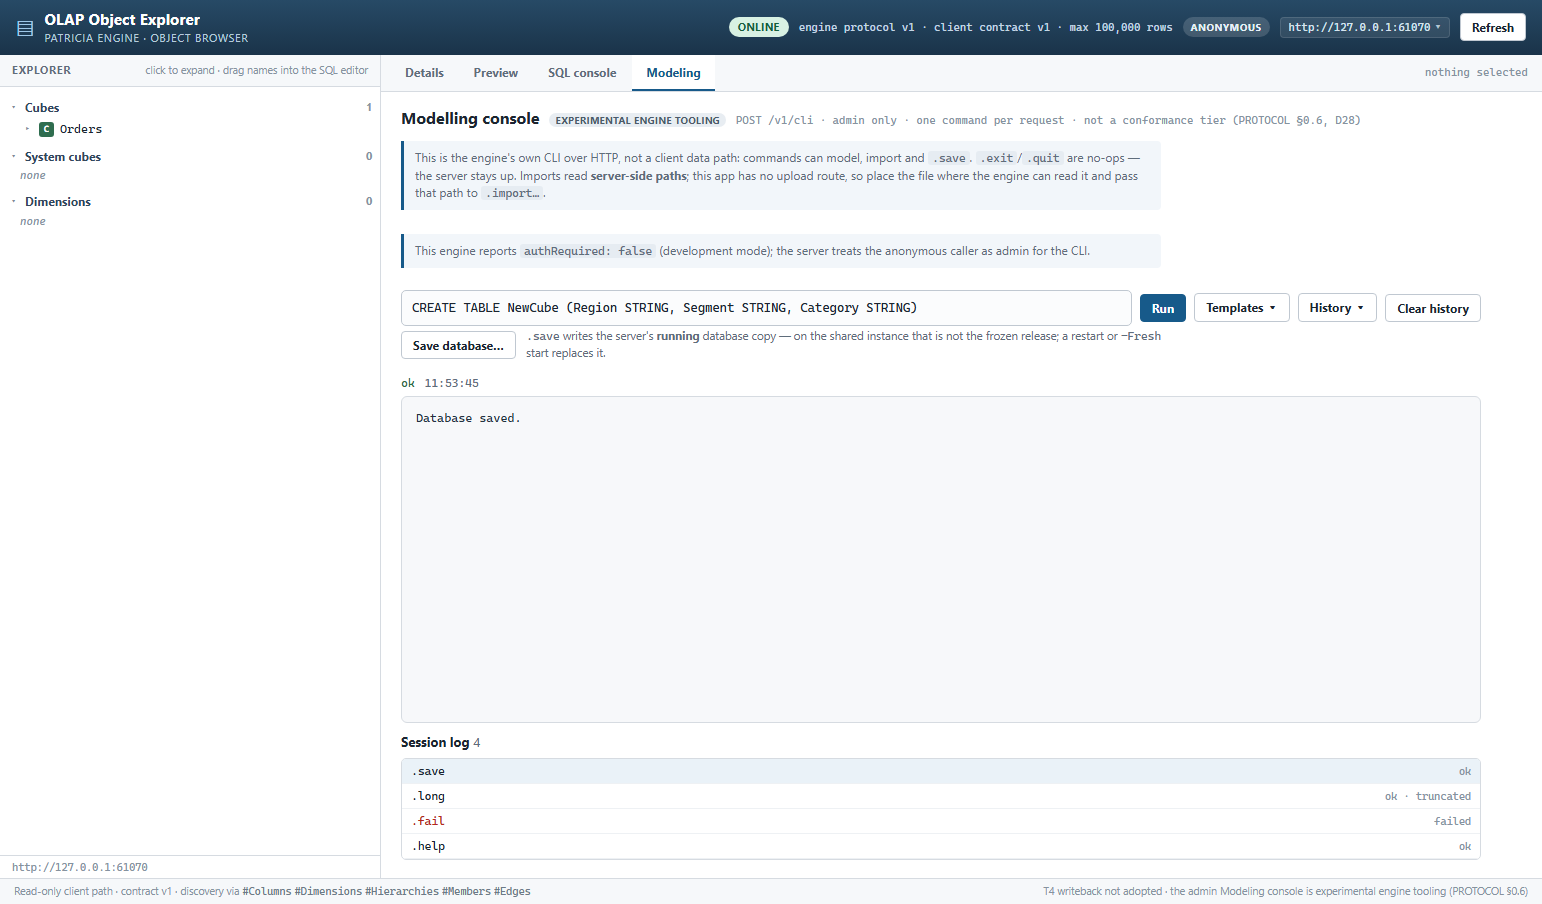
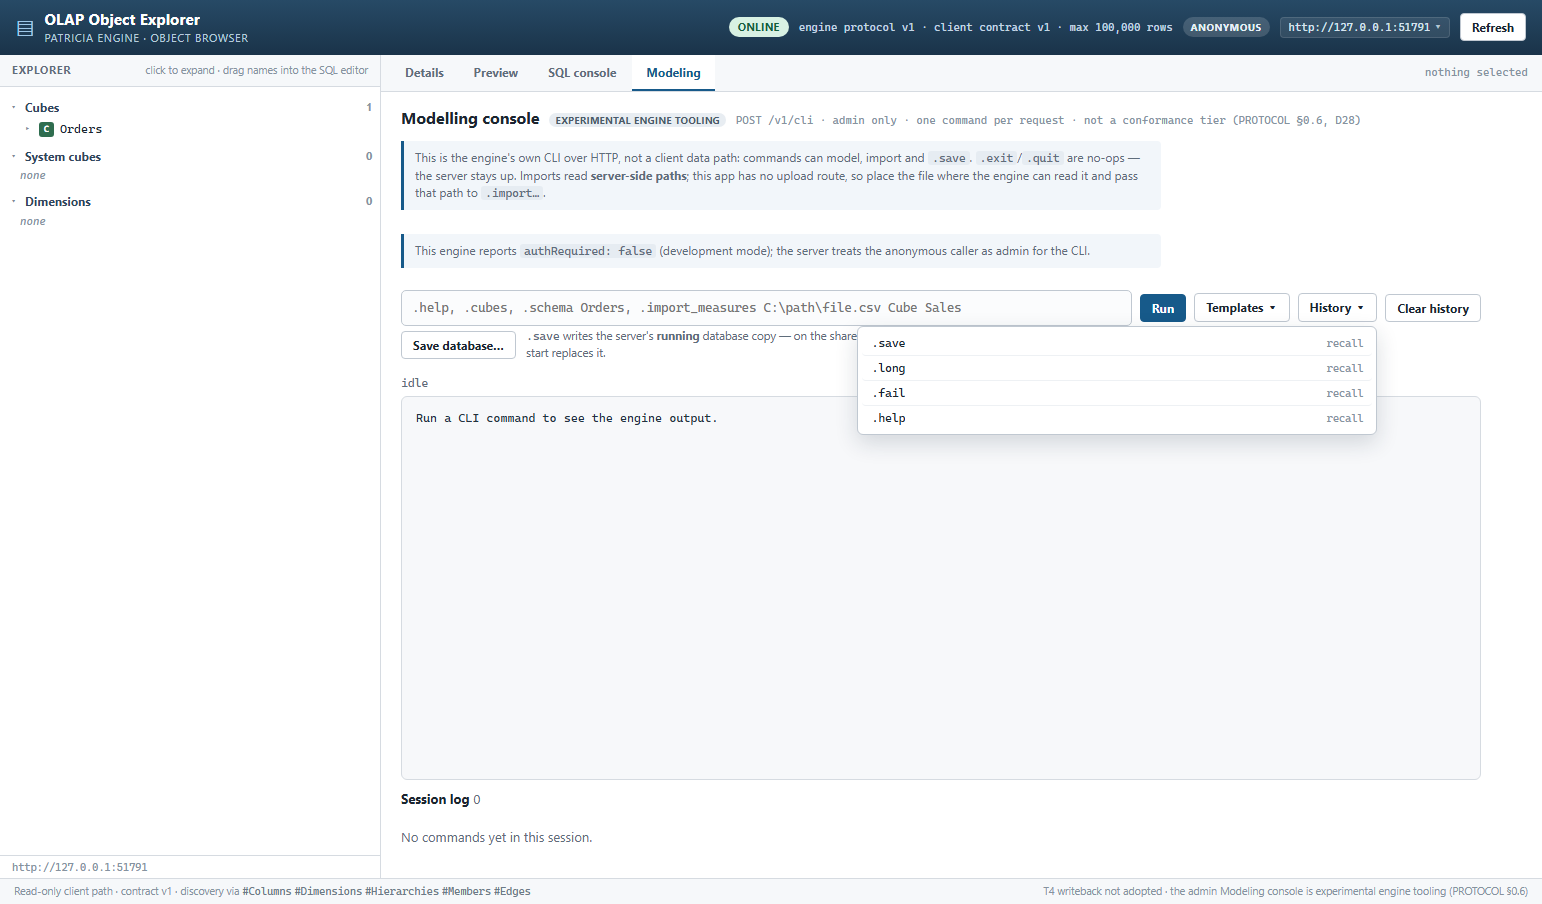
feat(cli): persist command history (100 commands, per server/user)
- Shell-style history now lives in localStorage as commands only (no output),
  keyed by engine server + signed-in user, capped at 100, deduped consecutively,
  and cleared by Clear history.
- Up/Down and the History dropdown read the persisted list; the session log
  keeps the current session's outputs.
- Unit check for cap/dedupe/round-trip; the UI check reloads the app and asserts
  history survives (64 checks). README records the shared-browser-profile caveat.

diff --git a/src/cli.tsx b/src/cli.tsx
@@ -1,6 +1,12 @@
-import { useMemo, useRef, useState } from 'react';
+import { useEffect, useMemo, useRef, useState } from 'react';
 import type { FormEvent, KeyboardEvent } from 'react';
-import { engineApi, errorCode, errorText } from './api';
+import { engineApi, engineBase, errorCode, errorText } from './api';
+import {
+  addCommand,
+  cliHistoryKey,
+  loadHistory,
+  saveHistory,
+} from './cliHistory';
 import type { CliResponse } from './types';
 
 interface CliConsoleProps {
@@ -17,6 +23,8 @@ interface CliConsoleProps {
   roles: string[] | null;
   /** True when the engine reports authRequired: false (development mode). */
   anonymous: boolean;
+  /** Signed-in user, or null for anonymous / token-only sessions. */
+  user: string | null;
 }
 
 interface CliEntry {
@@ -98,6 +106,14 @@ function nowLabel(): string {
   return new Date().toLocaleTimeString();
 }
 
+function browserStorage(): Storage | null {
+  try {
+    return window.localStorage;
+  } catch {
+    return null;
+  }
+}
+
 /**
  * Admin modelling console for the engine's CLI bridge (`POST /v1/cli`).
  *
@@ -115,9 +131,13 @@ function nowLabel(): string {
  * `.save` writes the **running** database copy, not the frozen release pair;
  * the button therefore says so explicitly and requires a second click.
  */
-export function CliConsole({ supportsCli, roles, anonymous }: CliConsoleProps) {
+export function CliConsole({ supportsCli, roles, anonymous, user }: CliConsoleProps) {
   const [command, setCommand] = useState('');
   const [entries, setEntries] = useState<CliEntry[]>([]);
+  // Persistent shell-style history: commands only, server+user scoped.
+  const storage = browserStorage();
+  const historyStoreKey = cliHistoryKey(engineBase(), user);
+  const [history, setHistory] = useState<string[]>(() => loadHistory(storage, historyStoreKey));
   const [activeId, setActiveId] = useState<number | null>(null);
   const [running, setRunning] = useState(false);
   const [formError, setFormError] = useState<string | null>(null);
@@ -137,6 +157,10 @@ export function CliConsole({ supportsCli, roles, anonymous }: CliConsoleProps) {
     () => entries.find((entry) => entry.id === activeId) ?? entries[0] ?? null,
     [entries, activeId],
   );
+
+  useEffect(() => {
+    saveHistory(storage, historyStoreKey, history);
+  }, [storage, historyStoreKey, history]);
 
   if (!supportsCli) {
     return (
@@ -159,6 +183,7 @@ export function CliConsole({ supportsCli, roles, anonymous }: CliConsoleProps) {
     setFormError(null);
     setSaveConfirm(false);
     setTemplateOpen(false);
+    setHistory((previous) => addCommand(previous, raw));
     setRunning(true);
     setBrowseIndex(null);
     setDraft('');
@@ -210,11 +235,11 @@ export function CliConsole({ supportsCli, roles, anonymous }: CliConsoleProps) {
   };
 
   const recallOlder = () => {
-    if (entries.length === 0) return;
-    const next = browseIndex === null ? 0 : Math.min(entries.length - 1, browseIndex + 1);
+    if (history.length === 0) return;
+    const next = browseIndex === null ? 0 : Math.min(history.length - 1, browseIndex + 1);
     if (browseIndex === null) setDraft(command);
     setBrowseIndex(next);
-    setCommand(entries[next].command);
+    setCommand(history[next]);
   };
 
   const recallNewer = () => {
@@ -225,13 +250,12 @@ export function CliConsole({ supportsCli, roles, anonymous }: CliConsoleProps) {
       setCommand(draft);
     } else {
       setBrowseIndex(next);
-      setCommand(entries[next].command);
+      setCommand(history[next]);
     }
   };
 
-  const chooseHistory = (entry: CliEntry) => {
-    setCommand(entry.command);
-    setActiveId(entry.id);
+  const chooseHistory = (recalled: string) => {
+    setCommand(recalled);
     setBrowseIndex(null);
     setHistoryOpen(false);
     setTemplateOpen(false);
@@ -259,8 +283,7 @@ export function CliConsole({ supportsCli, roles, anonymous }: CliConsoleProps) {
         event.preventDefault();
         recallNewer();
       }
-    } else if (event.key === 'Escape') {
-      setHistoryOpen(false);
+    } else if (event.key === 'Escape') {      setHistoryOpen(false);
       setTemplateOpen(false);
     }
   };
@@ -374,8 +397,8 @@ export function CliConsole({ supportsCli, roles, anonymous }: CliConsoleProps) {
                 data-testid="cli-history-button"
                 aria-haspopup="menu"
                 aria-expanded={historyOpen}
-                title="Recent commands (↑/↓ in the input recalls them)"
-                disabled={entries.length === 0}
+                title="Recent commands, remembered per server and user (↑/↓ recalls them)"
+                disabled={history.length === 0}
                 onClick={() => {
                   setHistoryOpen((open) => !open);
                   setTemplateOpen(false);
@@ -383,22 +406,20 @@ export function CliConsole({ supportsCli, roles, anonymous }: CliConsoleProps) {
               >
                 History ▾
               </button>
-              {historyOpen && entries.length > 0 && (
+              {historyOpen && history.length > 0 && (
                 <div className="cli-history-menu" role="menu" data-testid="cli-history-menu">
-                  {entries.map((entry) => (
+                  {history.map((recalled, index) => (
                     <button
-                      key={entry.id}
+                      key={`${index}-${recalled}`}
                       type="button"
                       role="menuitem"
                       data-testid="cli-history-item"
-                      className={`cli-history-item${entry.ok ? '' : ' is-error'}`}
-                      title={entry.command}
-                      onClick={() => chooseHistory(entry)}
+                      className="cli-history-item"
+                      title={recalled}
+                      onClick={() => chooseHistory(recalled)}
                     >
-                      <span className="cli-history-command">{entry.command}</span>
-                      <span className="cli-history-meta">
-                        {entry.kind === 'http' ? 'http' : entry.ok ? 'ok' : 'failed'}
-                      </span>
+                      <span className="cli-history-command">{recalled}</span>
+                      <span className="cli-history-meta">recall</span>
                     </button>
                   ))}
                 </div>
@@ -408,9 +429,10 @@ export function CliConsole({ supportsCli, roles, anonymous }: CliConsoleProps) {
               type="button"
               className="btn"
               data-testid="cli-clear"
-              disabled={running || entries.length === 0}
+              disabled={running || (entries.length === 0 && history.length === 0)}
               onClick={() => {
                 setEntries([]);
+                setHistory([]);
                 setActiveId(null);
                 setFormError(null);
                 setBrowseIndex(null);

diff --git a/src/cliHistory.ts b/src/cliHistory.ts
@@ -1,0 +1,60 @@
+/**
+ * CLI command history persistence.
+ *
+ * Deliberately **commands only** (no output): output can be up to 64 KiB per
+ * command, and a clipboard-style recall list does not need it. Stored in
+ * `localStorage`, keyed by engine server + signed-in user, capped at 100.
+ *
+ * Multi-user caveat: this is a single-browser profile store. Two different
+ * OS users sharing one browser profile share `localStorage`; the user-name key
+ * separates normal logins, but an anonymous session shares the `anonymous` key
+ * for that server. Commands may contain server paths/names, so the README says
+ * this plainly.
+ */
+export const CLI_HISTORY_LIMIT = 100;
+const KEY_PREFIX = 'olap-object-explorer.cli-history.v1';
+
+export function cliHistoryKey(server: string, user: string | null): string {
+  return `${KEY_PREFIX}:${server === '' ? 'proxy' : server}:${user ?? 'anonymous'}`;
+}
+
+/** Keep only non-empty, single-line strings and cap at the limit. */
+export function normalizeHistory(raw: unknown): string[] {
+  if (!Array.isArray(raw)) return [];
+  const result: string[] = [];
+  for (const item of raw) {
+    if (typeof item !== 'string') continue;
+    if (item.trim() === '' || /[\r\n]/.test(item)) continue;
+    result.push(item);
+    if (result.length >= CLI_HISTORY_LIMIT) break;
+  }
+  return result;
+}
+
+/** Newest first, no consecutive duplicates, capped. */
+export function addCommand(history: string[], command: string): string[] {
+  if (command.trim() === '' || /[\r\n]/.test(command)) return history;
+  const withoutDuplicate = history[0] === command ? history : [command, ...history];
+  return withoutDuplicate.slice(0, CLI_HISTORY_LIMIT);
+}
+
+export function loadHistory(storage: Storage | null, key: string): string[] {
+  if (storage === null) return [];
+  try {
+    const raw = storage.getItem(key);
+    if (raw === null) return [];
+    return normalizeHistory(JSON.parse(raw));
+  } catch {
+    return [];
+  }
+}
+
+export function saveHistory(storage: Storage | null, key: string, history: string[]): void {
+  if (storage === null) return;
+  try {
+    if (history.length === 0) storage.removeItem(key);
+    else storage.setItem(key, JSON.stringify(history.slice(0, CLI_HISTORY_LIMIT)));
+  } catch {
+    /* quota/privacy failure: keep the in-memory list */
+  }
+}

diff --git a/src/data.ts b/src/data.ts
@@ -35,6 +35,14 @@ export {
 export type { SessionInfo, UnauthorizedReason } from './auth';
 export type { DimensionInfo, MemberTree } from './discovery';
 export * from './memberTree';
+export {
+  CLI_HISTORY_LIMIT,
+  addCommand,
+  cliHistoryKey,
+  loadHistory,
+  normalizeHistory,
+  saveHistory,
+} from './cliHistory';
 export { parseSqlTable } from './sqlTable';
 export type { ParsedSqlTable } from './sqlTable';
 export type {

diff --git a/src/App.tsx b/src/App.tsx
@@ -640,6 +640,7 @@ export default function App() {
                   supportsCli={cliAvailable}
                   roles={cliRoles}
                   anonymous={cliAnonymous}
+                  user={session === null ? null : session.user}
                 />
               </div>
             )}

diff --git a/README.md b/README.md
@@ -101,7 +101,7 @@ pin lives in this README and in one code comment (`src/types.ts`).
 | T4 writeback | **not adopted by design** — the engine supports `POST /v1/{dataset}/write` and `POST /v1/save` (`capabilities.supportsWrite: true`); this product's data path does not write |
 | Modeling console | **not a tier** — optional admin CLI console, feature-gated on `capabilities.supportsCli`, experimental engine tooling (PROTOCOL §0.6, D28). An engine without the capability shows no tab, and T0–T3 behavior is unchanged |
 | Verified against | engine `76355a8` for the CLI route (pre-release; not in the live 8080 pair yet), model **v2.2 on catalogue format v3**, contract v1 — 2026-11-15; base client verified against engine release `36afe88`/`12bfef1` (2026-11-10) |
-| Evidence | `tsc --noEmit` exit 0; suite **63/63 checks, exit 0** (see [Verification](#verification)); live scratch-engine CLI smoke: `.help`, `.cubes`, `.import_measures`, `.run`, `.save`, `.exit` no-op, server stays up |
+| Evidence | `tsc --noEmit` exit 0; suite **64/64 checks, exit 0** (see [Verification](#verification)); live scratch-engine CLI smoke: `.help`, `.cubes`, `.import_measures`, `.run`, `.save`, `.exit` no-op, server stays up |
 
 The client validates `capabilities.protocolVersion` before any data request and shows a
 blocking **"Unsupported contract version"** state on a mismatch (PROTOCOL §0.3/§12): a v2
@@ -164,8 +164,9 @@ weights of `0.5` are preserved and unit-tested. Cycles and self-edges cannot han
   default (contract D22; engine `0e4214d`).
 - **Modeling** (only when `capabilities.supportsCli` is true) — admin CLI console for engine
   `POST /v1/cli` (PROTOCOL §0.6, D28). One command per request (≤8192 bytes, no CR/LF), output
-  pane with truncation badge, command history (a **History ▾** dropdown plus shell-style
-  **↑/↓** recall in the command input; memory only, cleared by a reload or server switch), and
+  pane with truncation badge, persistent command history (a **History ▾** dropdown plus
+  shell-style **↑/↓** recall in the command input; commands only, capped at 100, kept in
+  `localStorage` per engine server + signed-in user, cleared by **Clear history**), and
   error display. A **Templates ▾** menu inserts CREATE skeletons into the command line (plain
   cube, measure-dimension cube, attribute table, dimension, hierarchy) for the operator to
   rename and run. The tab is **experimental
@@ -261,7 +262,7 @@ Environment overrides (all optional; workspace defaults shown):
 When no engine binary/reference database is available, phases 3–5 report a skip and phases
 1–2 still run, so a plain clone gets build + unit coverage.
 
-Five phases, **63 checks, all green** (2026-11-16; suite run against the archived v1 demo
+Five phases, **64 checks, all green** (2026-11-19; suite run against the archived v1 demo
 fixture with engine `33ae673`, live-model SQL smoke against model v2.2 / format v3, and a live
 scratch-engine CLI smoke at engine `76355a8`). The fixture keeps the numeric fixtures stable;
 the SQL-console behaviour is model-independent and was also smoke-tested against the live
@@ -290,9 +291,10 @@ the SQL-console behaviour is model-independent and was also smoke-tested against
    `supportsCli` is missing, and the **server picker** connects to a stub engine URL (including
    validation of a malformed URL) and returns to the proxy default; the CLI check also exercises
    the History ▾ dropdown and ↑ recall, plus the **Templates ▾** CREATE menu inserting the
-   table skeleton. The SQL console check asserts the parsed **HTML table**
-   (headers, rows, row/column meta) and the raw-text toggle; a pure unit check covers the
-   table parser, including its raw fallback for empty/ambiguous output.
+   table skeleton, then reloads the app and asserts the command history survived. A pure unit
+   check covers the 100-command cap, dedupe and storage round-trip; another unit check covers
+   the table parser. The SQL console check asserts the parsed **HTML table** (headers, rows,
+   row/column meta) and the raw-text toggle, including its fallback for empty/ambiguous output.
 5. Authentication against a real engine with auth enabled on a **copy** of `database.bin`:
    public capabilities with `authRequired: true`, 401s without a token, wrong-password 401,
    login token/roles, authenticated discovery, clearing the token 401s; in the browser the
@@ -415,6 +417,11 @@ own the fixes. Contract section numbers refer to `contract/PROTOCOL.md` (§11 = 
 - No multi-server **bookmark list**: the server chooser takes a direct URL or the proxy default;
   `?engine=` also works.
 - No "remember me": the token is per-tab `sessionStorage`, deliberately not persisted to disk.
+- **CLI command history is persisted** in `localStorage` (commands only — no output), keyed by
+  engine server + signed-in user, capped at 100, and removed by **Clear history**. This is a
+  browser-profile store, so two OS users sharing one browser profile can see each other's
+  commands; an anonymous session shares the `anonymous` key for that server. It is not a
+  server-side audit log and should not be treated as one.
 - The SQL console parses the engine's text table for display; it does not implement SQL itself
   and still has no `GROUP BY` support because the engine's tooling path ignores it (§11.6).
 
